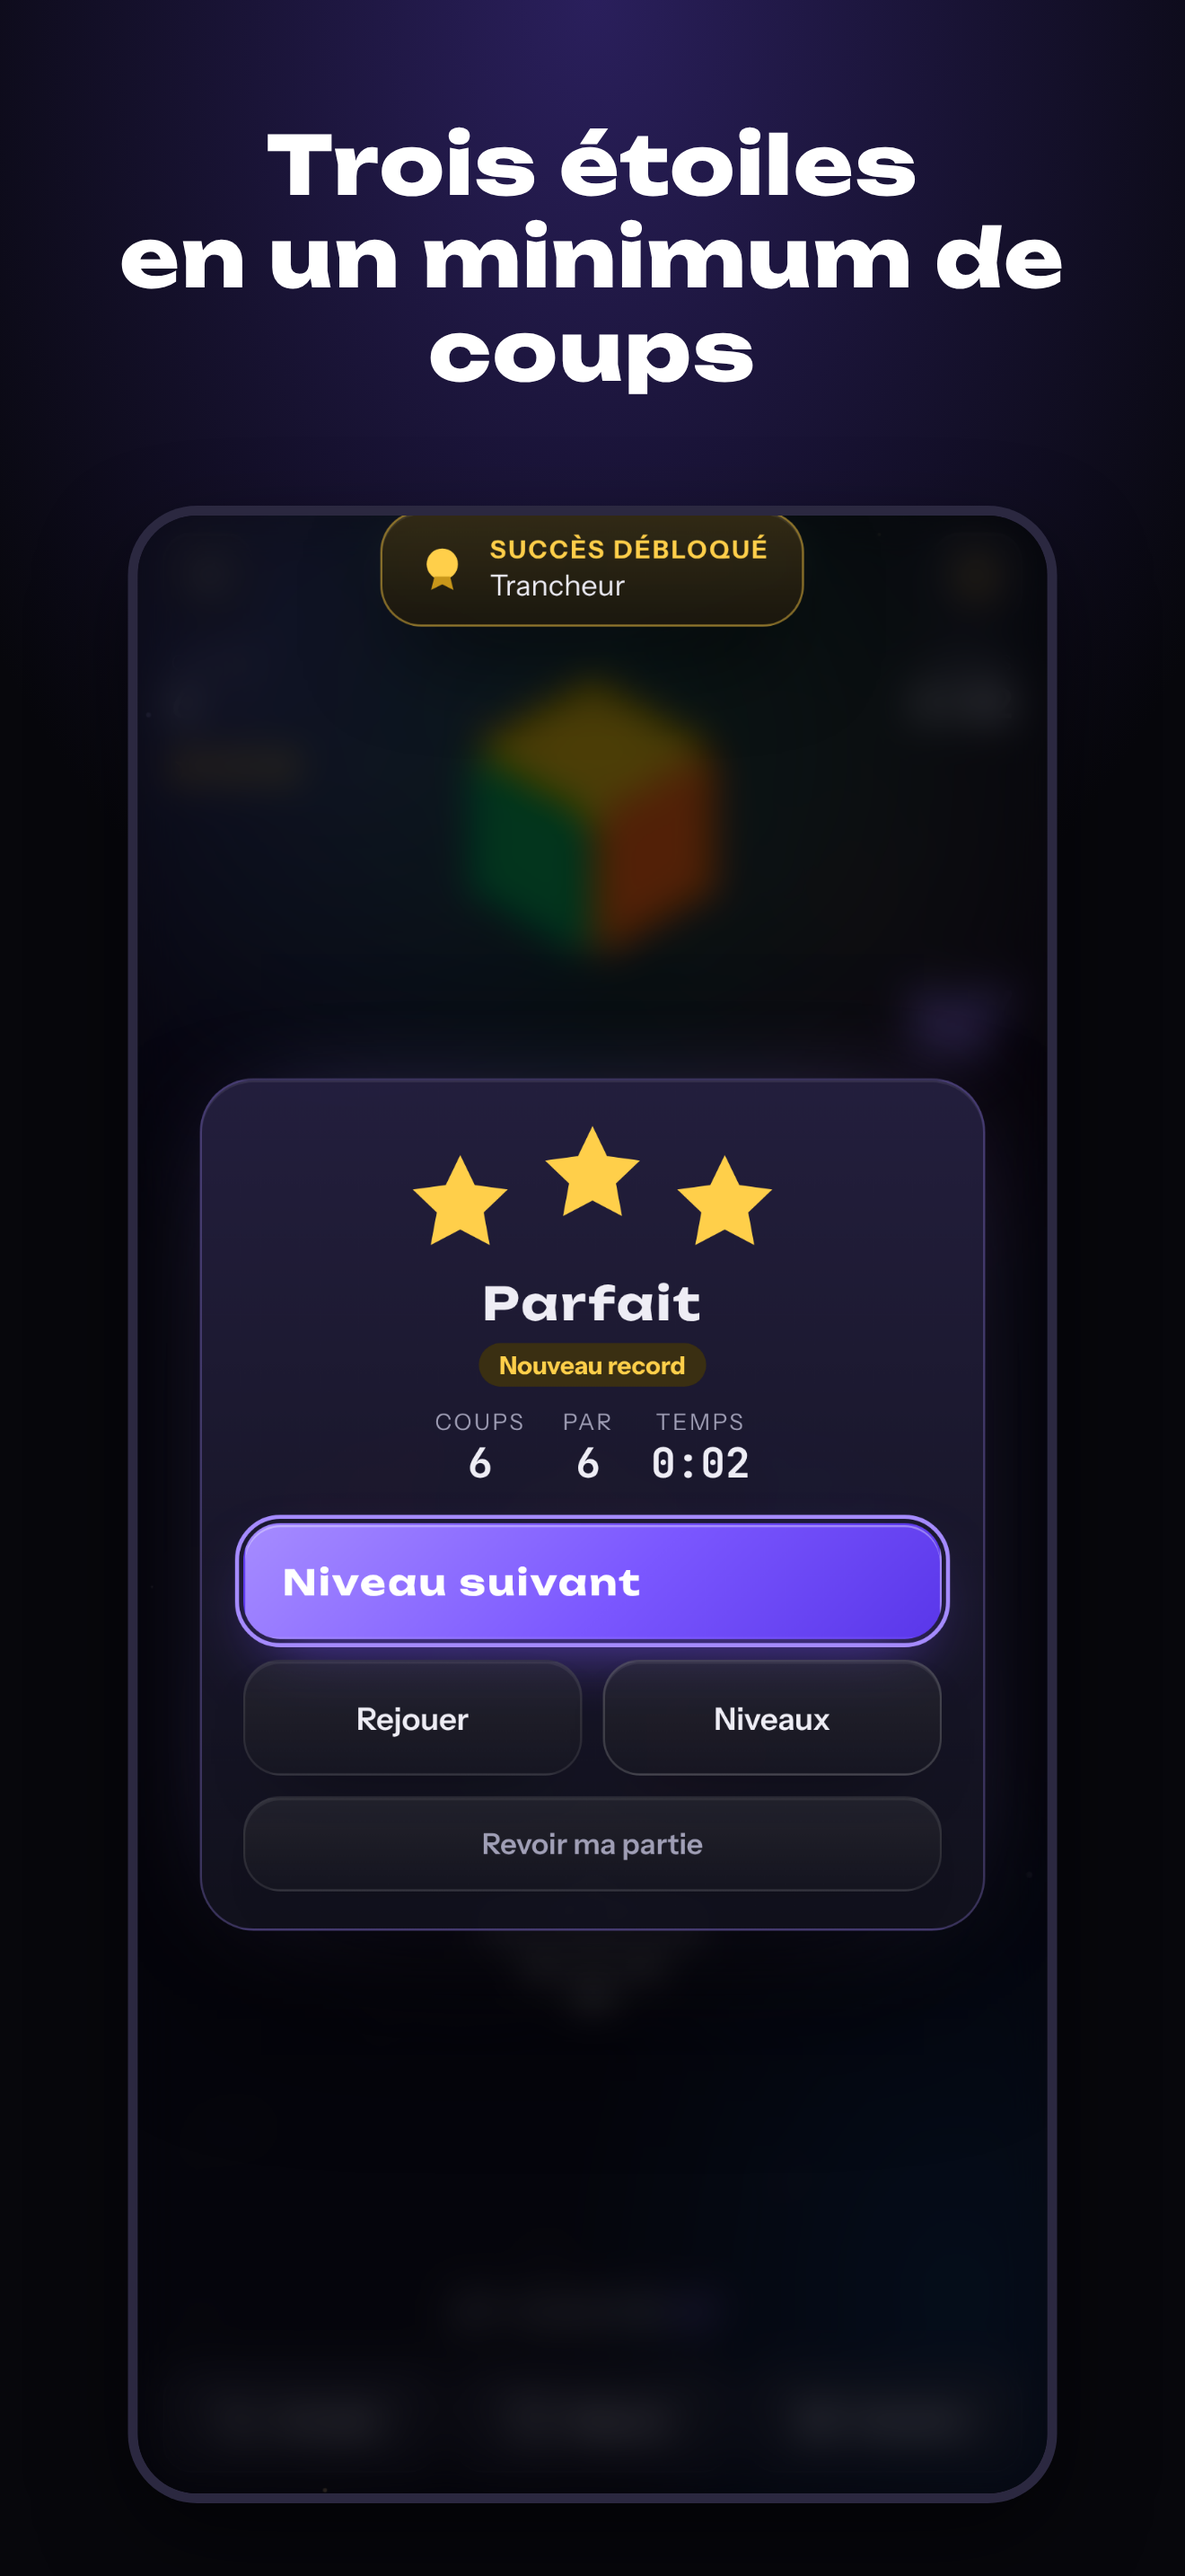
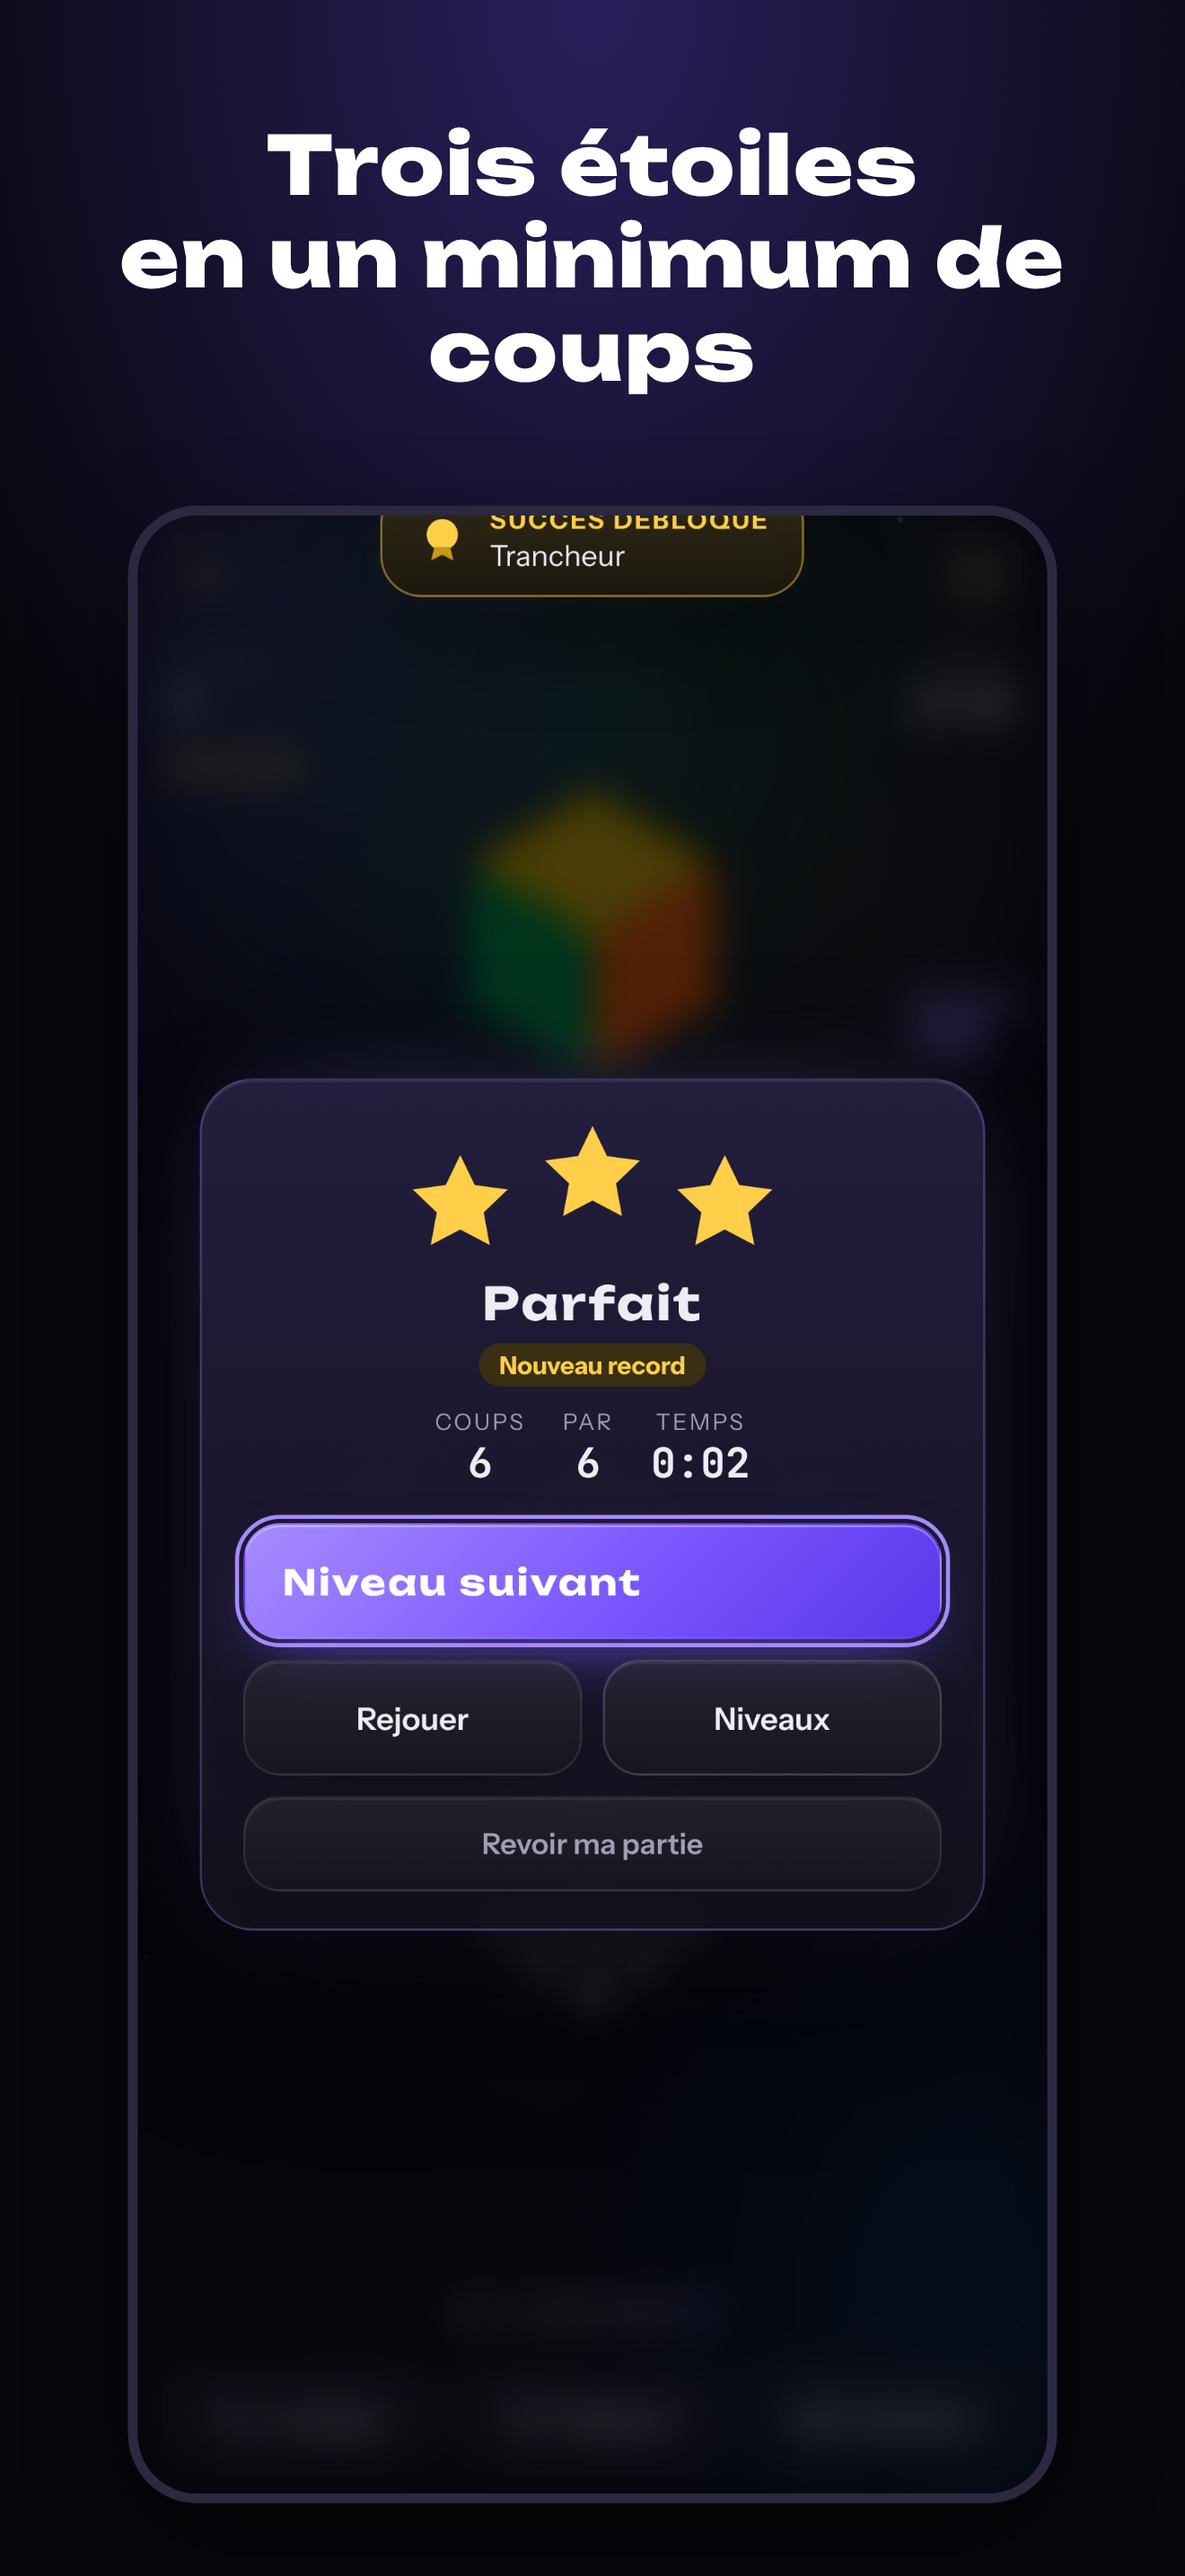
Accueil en mosaïque, cube centré entre le titre et le plateau, chargement plus long
- Accueil : bouton principal plus haut avec l'icône dans un rond, Défi du jour et Partie libre en
  deux tuiles hautes à pastille, « Comment jouer » en lien ; les mentions à droite en petites capitales.
- Partie : le cube se centre verticalement entre le titre et le haut du grand cercle ; la date du
  défi prend sa majuscule ; le record du niveau s'affiche sous le temps, en face des étoiles.
- Écran de chargement : de 1,5 à 2,4 s au lieu de 0,7 à 1,6 s.

Claude-Session: https://claude.ai/code/session_0149xvqQAFsWoXJkF64USQEK

Changed region(s): [[0.3106, 0.1862, 0.6833, 0.4344]]

diff --git a/orbicube/www/index.html b/orbicube/www/index.html
@@ -341,6 +341,24 @@ body.zen #jeu .jinfo .stat,body.zen #jeu .jetoiles{visibility:hidden}
 .envol{position:fixed;z-index:15;border-radius:20px;pointer-events:none;border:1px solid rgba(var(--acc),.45);
   background:radial-gradient(120% 120% at 20% 0%,rgba(var(--acc),.32),rgba(var(--acc),.04) 60%),#0d0d17;
   box-shadow:0 0 60px -10px rgba(var(--acc),.6);transition:all .42s cubic-bezier(.2,.8,.2,1)}
+
+/* ===== Accueil en mosaïque (11/10/2026) : le bouton principal, puis deux tuiles hautes, puis le reste ===== */
+#accueil .menu{gap:12px}
+#accueil .bouton.principal{min-height:62px;border-radius:20px;font-size:18px}
+#accueil .bouton.principal svg{width:34px;height:34px;padding:9px;border-radius:50%;background:rgba(255,255,255,.18);box-sizing:border-box}
+.bento{display:grid;grid-template-columns:1fr 1fr;gap:12px}
+.bouton.bloc{flex-direction:column;align-items:flex-start;justify-content:space-between;gap:10px;min-height:104px;padding:14px 15px;border-radius:20px}
+.bouton.bloc>span:not(.droite){font-size:16px;line-height:1.15}
+.bouton.bloc .droite{margin-left:0;margin-top:-6px}
+.pastille{display:grid;place-items:center;width:38px;height:38px;border-radius:12px;background:rgba(var(--acc),.18);box-shadow:inset 0 1px 0 rgba(255,255,255,.1)}
+.pastille svg{width:20px!important;height:20px!important;stroke:rgb(var(--acc))}
+.bouton.or .pastille{background:rgba(255,207,74,.16)}.bouton.or .pastille svg{stroke:var(--or)}
+.bouton .droite{text-transform:uppercase;letter-spacing:.1em;font-size:11px}
+#accueil .rangee2 .bouton{border-radius:18px}
+.lien{background:none;border:0;color:var(--pale);font-size:14px;font-weight:600;padding:10px;cursor:pointer;text-decoration:underline;text-decoration-color:rgba(255,255,255,.2);text-underline-offset:4px}
+/* titres de partie : la date du défi commence par une majuscule */
+.jtitre span::first-letter{text-transform:uppercase}
+.jrecord{display:block;margin-top:10px;font-family:var(--f-chiffre);font-size:11px;letter-spacing:.06em;color:var(--sourd);text-transform:none}
 @media (prefers-reduced-motion:reduce){*,*::before,*::after{animation-duration:.01ms!important;transition-duration:.01ms!important}}
 </style>
 </head>
@@ -364,18 +382,20 @@ body.zen #jeu .jinfo .stat,body.zen #jeu .jetoiles{visibility:hidden}
           <button class="bouton principal" id="btnJouer" type="button">
             <svg viewBox="0 0 24 24"><path d="M7 4l12 8-12 8z" fill="currentColor" stroke="none"/></svg>
             <span id="jouerTxt">Jouer</span><span class="droite" id="jouerSous"></span></button>
-          <button class="bouton or" id="btnJour" type="button">
-            <svg viewBox="0 0 24 24"><rect x="3" y="5" width="18" height="16" rx="3"/><path d="M3 10h18M8 3v4M16 3v4"/><circle cx="12" cy="15.5" r="2"/></svg>
+          <div class="bento">
+          <button class="bouton or bloc" id="btnJour" type="button">
+            <i class="pastille"><svg viewBox="0 0 24 24"><rect x="3" y="5" width="18" height="16" rx="3"/><path d="M3 10h18M8 3v4M16 3v4"/><circle cx="12" cy="15.5" r="2"/></svg></i>
             <span>Défi du jour</span><span class="droite" id="jourSous"></span></button>
-          <button class="bouton" id="btnLibre" type="button">
-            <svg viewBox="0 0 24 24"><circle cx="12" cy="13" r="8"/><path d="M12 9v4l3 2M9 2h6"/></svg>
+          <button class="bouton bloc" id="btnLibre" type="button">
+            <i class="pastille"><svg viewBox="0 0 24 24"><circle cx="12" cy="13" r="8"/><path d="M12 9v4l3 2M9 2h6"/></svg></i>
             <span>Partie libre</span><span class="droite">chrono</span></button>
+          </div>
           <div class="rangee2">
             <button class="bouton" id="btnSucces" type="button"><svg viewBox="0 0 24 24"><circle cx="12" cy="9" r="6"/><path d="M8.5 14l-1.5 7 5-3 5 3-1.5-7"/></svg>Succès</button>
             <button class="bouton" id="btnOptions" type="button"><svg viewBox="0 0 24 24"><path d="M4 7h10M18 7h2M4 17h4M12 17h8"/><circle cx="16" cy="7" r="2"/><circle cx="10" cy="17" r="2"/></svg>Options</button>
           </div>
           <button class="bouton or" id="btnBoutique" type="button" hidden><svg viewBox="0 0 24 24"><path d="M3 8l4 4 5-7 5 7 4-4-2 11H5z"/></svg><span>Jeu complet</span><span class="droite" id="prixAccueil"></span></button>
-          <button class="bouton" id="btnAide" type="button" style="justify-content:center;min-height:46px;font-size:14px;color:var(--pale)">Comment jouer</button>
+          <button class="lien" id="btnAide" type="button">Comment jouer</button>
         </div>
         <p class="pied" id="piedTxt"></p>
       </div>
@@ -413,7 +433,7 @@ body.zen #jeu .jinfo .stat,body.zen #jeu .jetoiles{visibility:hidden}
     <div class="jinfo">
       <div class="stat">Coups<b id="jCoups">0</b><div class="jetoiles" id="jEt" aria-label="Étoiles possibles"></div></div>
       <div class="jcube"><canvas id="mini" aria-label="Cube en perspective"></canvas></div>
-      <div class="stat d">Temps<b id="jTemps">0:00</b></div>
+      <div class="stat d">Temps<b id="jTemps">0:00</b><span class="jrecord" id="jRecord"></span></div>
     </div>
     <div class="plateau" id="zonePlateau">
       <canvas id="plateau" aria-label="Plateau de cercles"></canvas>
@@ -884,13 +904,19 @@ function redimJeu(){var jeu=document.getElementById("jeu"),z=document.getElement
       autres=jeu.querySelector(".jtete").offsetHeight+jeu.querySelector(".jbas").offsetHeight+30,
       c=paysage?96:Math.max(64,Math.min(150,jeu.clientHeight-autres-Math.min(jeu.clientWidth-28,560)-12));
     jeu.style.setProperty("--cube",Math.round(c)+"px");}
-  var r=z.getBoundingClientRect();if(!r.width)return;JeuP.dimension(Math.min(r.width-28,r.height-8));dessinerMini();}
+  var r=z.getBoundingClientRect();if(!r.width)return;JeuP.dimension(Math.min(r.width-28,r.height-8));dessinerMini();
+  // le cube se centre verticalement entre le titre et le haut du grand cercle (décalage visuel seulement)
+  mini.style.transform="";if(PROG.options.cube&&getComputedStyle(jeu).display!=="grid"){var h=jeu.querySelector(".jtete").getBoundingClientRect().bottom,
+    c=JeuP.cv.getBoundingClientRect().top+JeuP.OY-(ECART+RAY[2])*JeuP.ECH,m=mini.getBoundingClientRect(),dy=(h+c)/2-(m.top+m.height/2);
+    if(Math.abs(dy)>1)mini.style.transform="translateY("+Math.round(dy)+"px)";}}
 function redimAide(){var w=document.getElementById("aideCanvas").getBoundingClientRect().width;if(w)AideP.dimension(w);}
 var ro=new ResizeObserver(function(){if(ECRAN==="jeu")redimJeu();if(ECRAN==="accueil")Logo.demarrer();if(ECRAN==="aide")redimAide();});
 ["zonePlateau","logo","aideCanvas"].forEach(function(id){ro.observe(document.getElementById(id));});
 ro.observe(document.querySelector(".logoboite"));
 
-function lancer(def){accent(def.mode==="campagne"?def.w:null);J={def:def,hist:[],t0:0,fini:false,indice:false,pret:false,tranches:{}};
+function lancer(def){accent(def.mode==="campagne"?def.w:null);
+  var rec=def.mode==="campagne"?PROG.niveaux[def.id]:def.mode==="jour"?PROG.jours[def.id]:PROG.stats.meilleur[def.n];
+  document.getElementById("jRecord").textContent=rec&&rec.temps?"record "+fmt(rec.temps):"";J={def:def,hist:[],t0:0,fini:false,indice:false,pret:false,tranches:{}};
   JeuP.col=resoluCol();JeuP.anim=null;JeuP.file=[];JeuP.indice=null;JeuP.survol=null;
   if(def.anneaux.length===9)JeuP.permis=null;else{JeuP.permis={};def.anneaux.forEach(function(b){JeuP.permis[MV[b][0]+","+MV[b][1]]=true;});}
   document.getElementById("jTitre").textContent=def.titre;document.getElementById("jSous").textContent=def.sous+" · par "+def.par;
@@ -1233,12 +1259,12 @@ function appliquerLangue(){var o=PROG.options.langue||"auto";changerLangue(o==="
 document.getElementById("optLangue").addEventListener("change",function(){PROG.options.langue=this.value;PROG.options.maj=Date.now();sauver();appliquerLangue();sonClic();});
 
 /* ========== 16. DÉMARRAGE ========== */
-// l'écran de chargement se retire quand les polices sont prêtes (au moins 0,7 s pour qu'on le voie, au plus 1,6 s)
+// l'écran de chargement se retire quand les polices sont prêtes (au moins 1,5 s pour qu'on le voie, au plus 2,4 s)
 (function(){var el=document.getElementById("chargement"),t0=performance.now(),fini=false;
   function retirer(){if(fini)return;fini=true;el.classList.add("fini");setTimeout(function(){el.remove();},700);}
   if(/[?&]capture\b/.test(location.search)||CALME){retirer();return;}
-  (document.fonts&&document.fonts.ready?document.fonts.ready:Promise.resolve()).then(function(){setTimeout(retirer,Math.max(0,700-(performance.now()-t0)));});
-  setTimeout(retirer,1600);})();
+  (document.fonts&&document.fonts.ready?document.fonts.ready:Promise.resolve()).then(function(){setTimeout(retirer,Math.max(0,1500-(performance.now()-t0)));});
+  setTimeout(retirer,2400);})();
 // accès réservé aux outils de captures (npm run captures), actif seulement avec ?capture dans l'adresse
 if(/[?&]capture\b/.test(location.search))window.__orbicube={solution:function(){return J&&J.pret?cheminSolution().map(function(m){return nomDe(m).replace("′","'");}):[];},vus:function(){return Object.keys(VUS);},manques:function(){return Object.keys(MANQUES);}};
 function demarrer(){appliquerLangue();parcourir(document.body);appliquerOptions();majAchat();montrer("accueil");NATIF.demarrer();connecterSucces();

diff --git a/orbicube/www/sw.js b/orbicube/www/sw.js
@@ -1,6 +1,6 @@
 // Version web (PWA) : tout le jeu est mis en cache pour se jouer hors ligne.
 // Incrémenter V à chaque publication, sinon les joueurs gardent l'ancienne version.
-var V = "orbicube-v20";
+var V = "orbicube-v21";
 var FICHIERS = ["./", "index.html", "config.js", "natif.js", "langues.js", "manifest.webmanifest", "confidentialite.html",
   "icones/favicon.png", "icones/apple-touch-icon.png", "icones/icon-192.png", "icones/icon-512.png", "icones/icon-maskable-512.png",
   "polices/polices.css", "polices/Unbounded-normal-700.woff2", "polices/Unbounded-normal-800.woff2",
